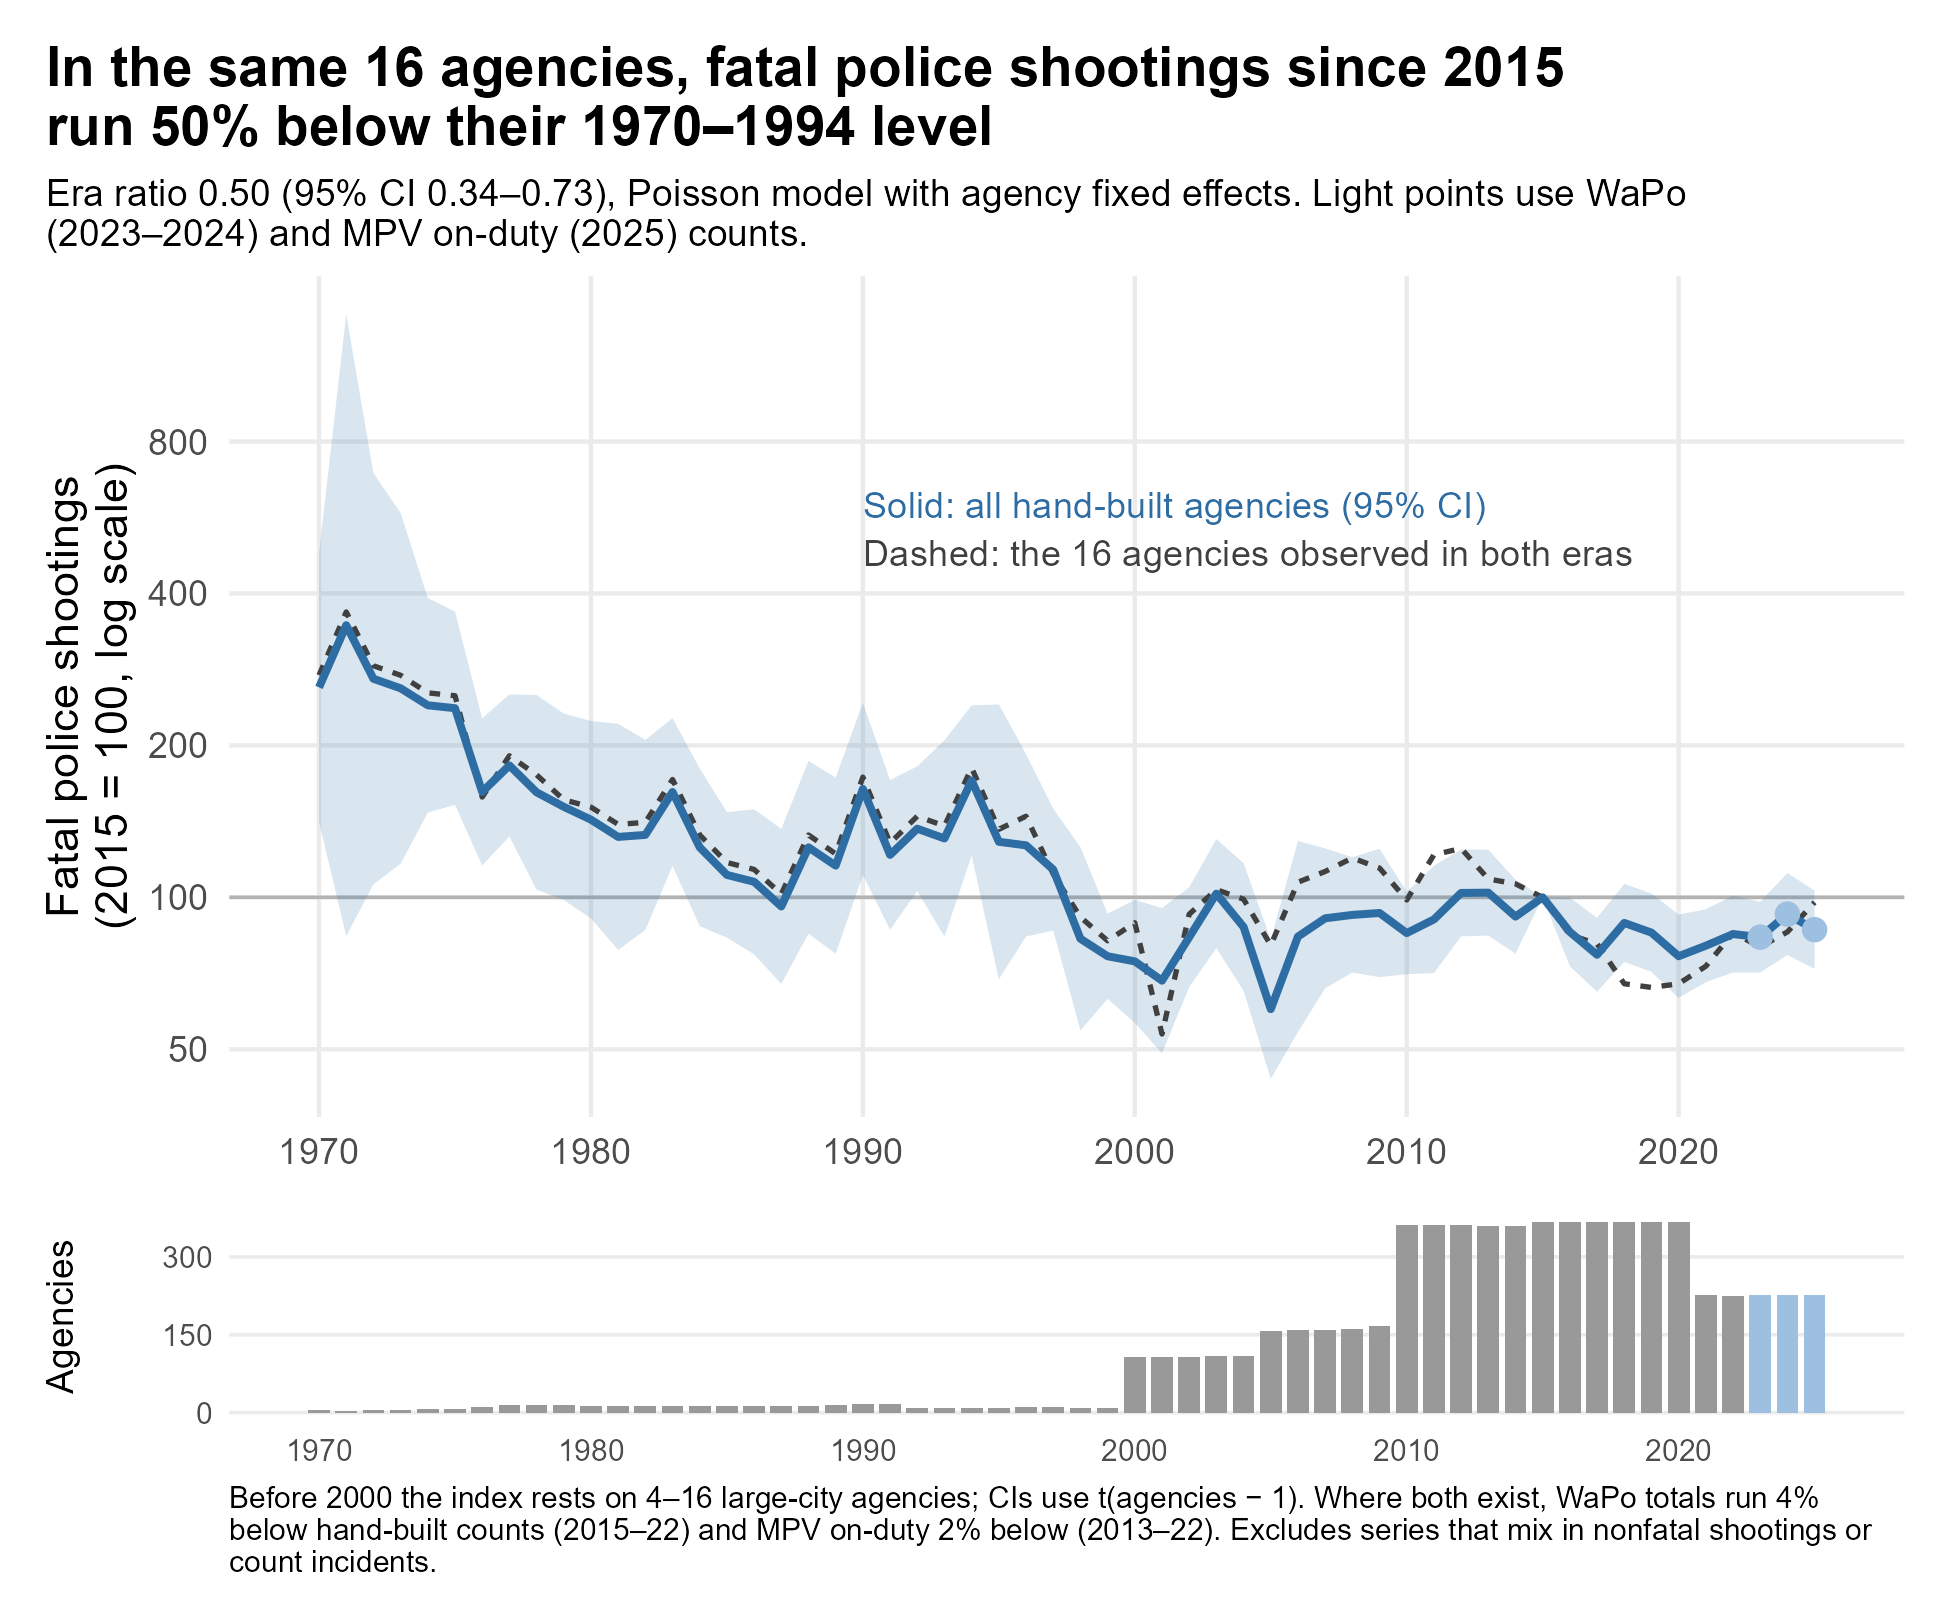
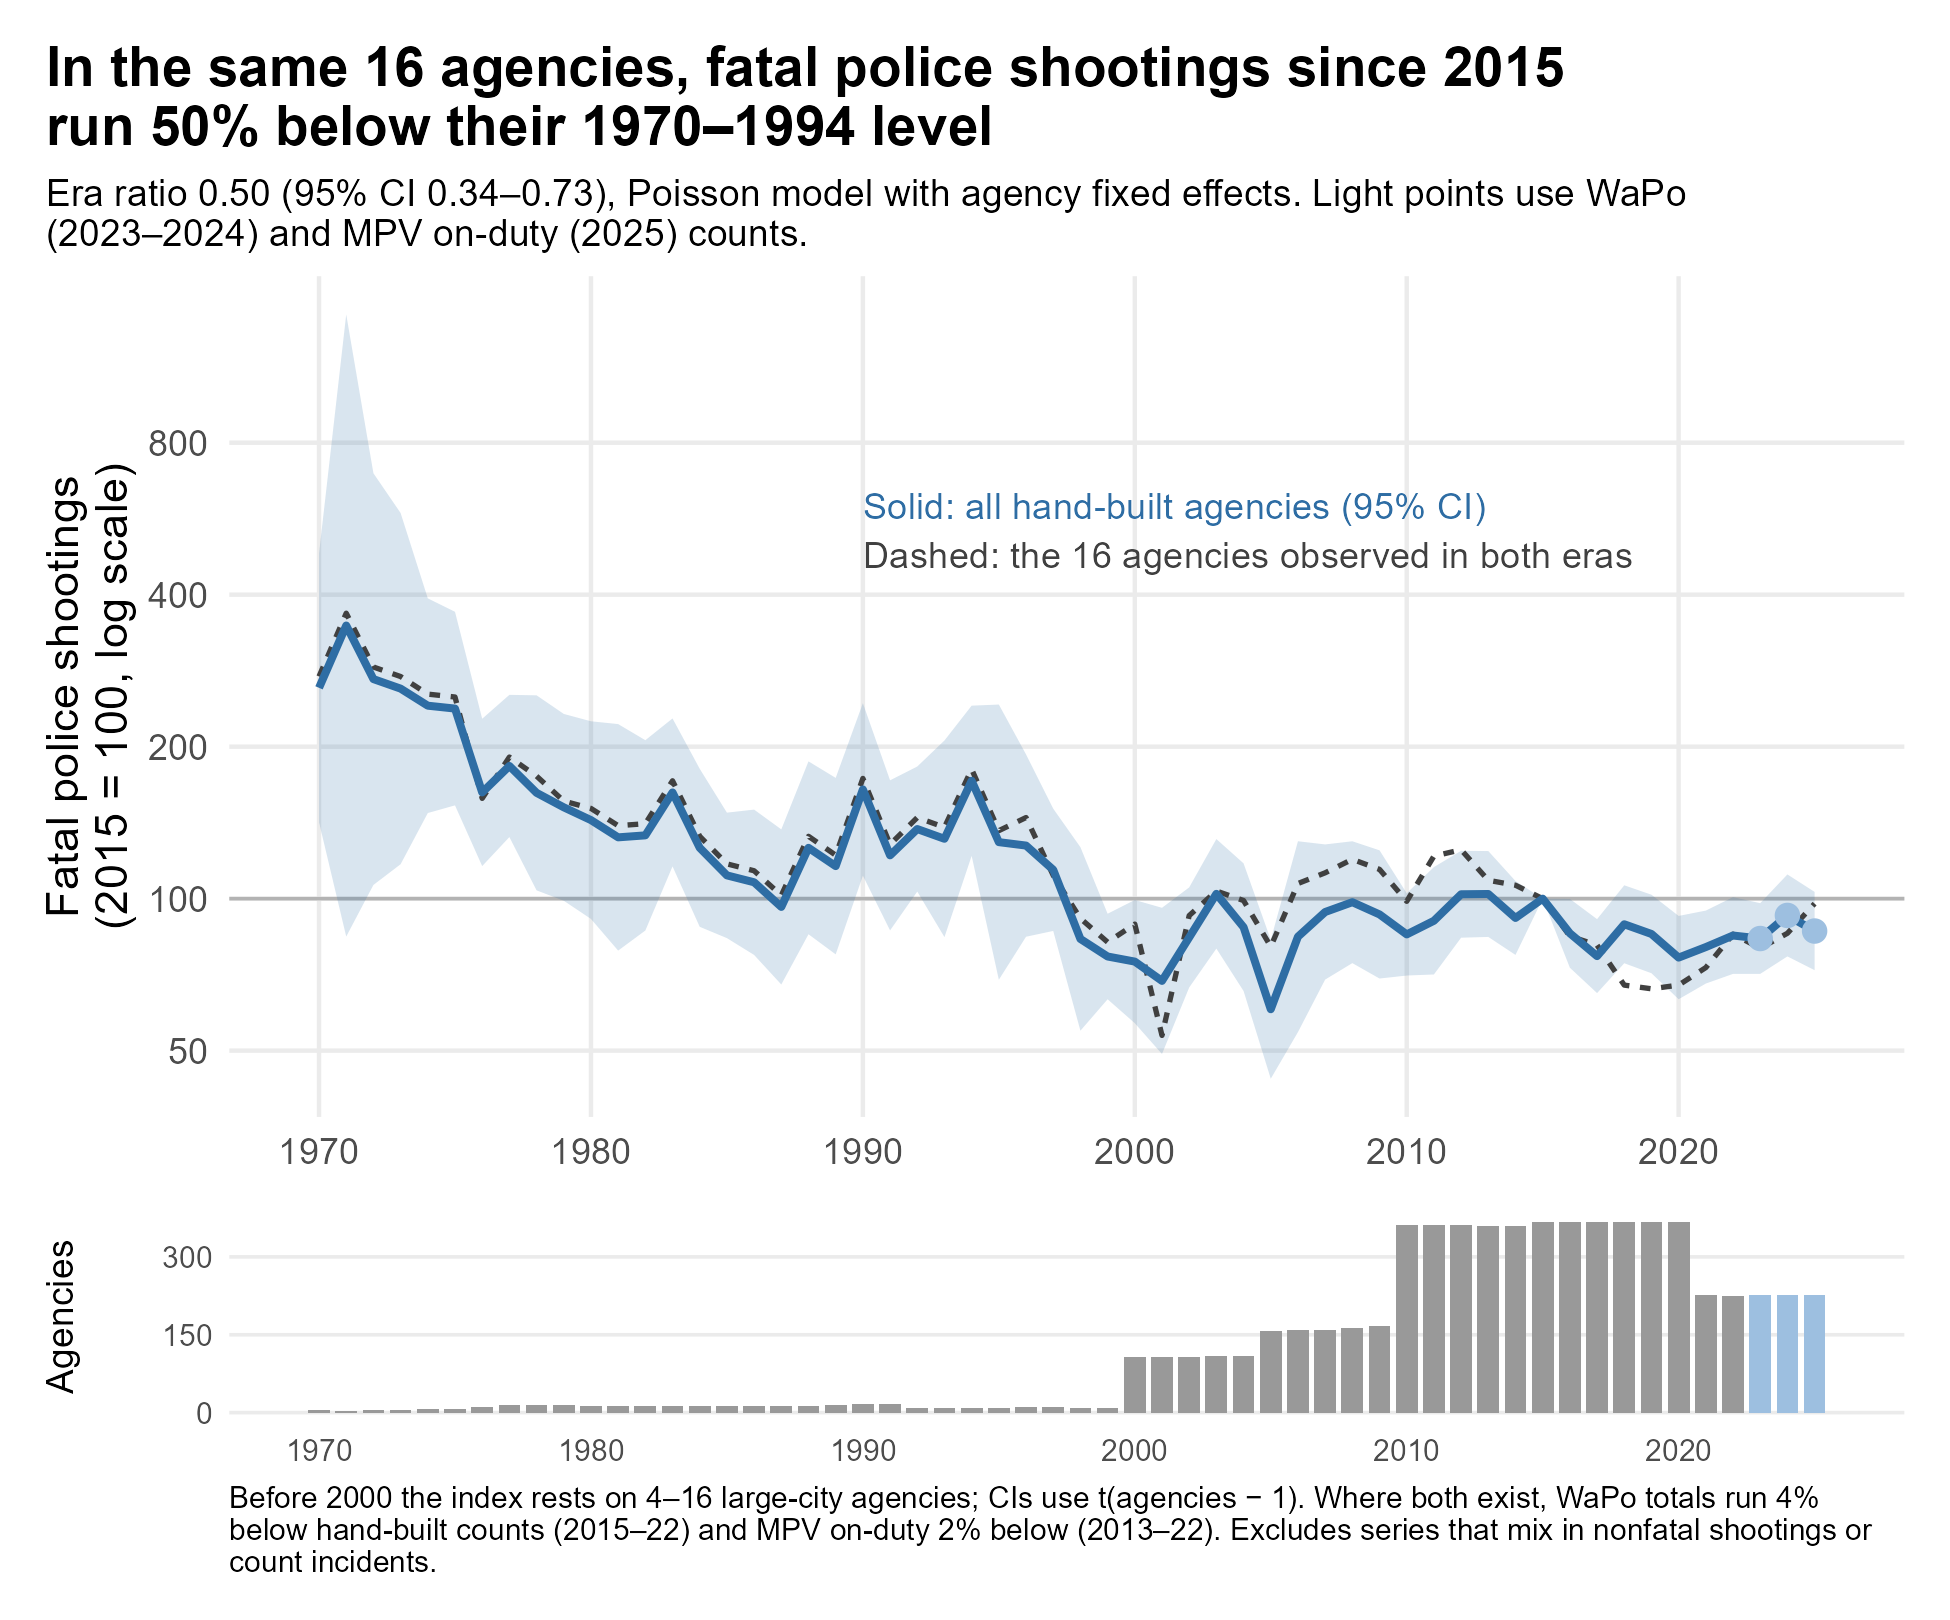
Add Jacksonville SO 2007-2008 to hand-built counts
Source: JSO, Police Involved Shootings (Jan. 2009), archived copy; logged
with page and quote in data/historical/historical_ois_evidence.csv. FE has
8 and 14 for those years. Pipeline rerun; README agreement row updated.

diff --git a/README.md b/README.md
@@ -69,7 +69,7 @@ Where they overlap, the sources mostly agree, though FE runs higher than WaPo:
 | Comparison | Years | Agency-years | Correlation | Total deaths, difference | Identical counts | Identical, where either > 0 |
 |---|---|---:|---:|---:|---:|---:|
 | Hand-built vs. WaPo | 2015–2022 | 2,641 | .945 | WaPo −4.0% | 95.2% | 86.8% |
-| Hand-built vs. FE | 2000–2021 | 5,559 | .902 | FE −1.1% | 91.2% | 69.3% |
+| Hand-built vs. FE | 2000–2021 | 5,561 | .903 | FE −1.2% | 91.2% | 69.3% |
 | WaPo vs. FE (hand-built agencies) | 2015–2021 | 2,870 | .973 | FE +9.2% | 90.1% | 71.1% |
 | Hand-built vs. MPV (on-duty) | 2013–2022 | 3,355 | .933 | MPV −2.2% | 89.9% | 71.5% |
 
@@ -138,6 +138,7 @@ I decided, for now at least, to focus on fatal shootings, since they're more rel
 | [Springfield (MO) PD](https://www.springfieldmo.gov/3755/Officer-Involved-Shootings) | 2008–2022 | Springfield (MO) PD |
 | [Austin open data portal](https://data.austintexas.gov/Public-Safety/Officer-Involved-Shooting-2000-2014/63p6-iegi) | 2000–2014 | Austin PD |
 | [Dallas open data portal](https://www.dallasopendata.com/Public-Safety/Dallas-Police-Officer-Involved-Shootings/4gmt-jyx2) | 2003–2022 | Dallas PD |
+| Jacksonville Sheriff's Office, [*Police Involved Shootings*](https://web.archive.org/web/20150717050006/http://www.jaxsheriff.org/departments/sheriffs-office/docs/sheriff-john-rutherford/police-involved-shootings-final.aspx) (Jan. 2009; archived copy) | 2007–2008 | Jacksonville SO |
 | [Cincinnati open data portal](https://data.cincinnati-oh.gov/Safety/PDI-Police-Data-Initiative-Officer-Involved-Shooti/r6q4-muts) | 1996–2019 | Cincinnati PD |
 | [Vermont open data portal](https://data.vermont.gov/Public-Safety/Vermont-State-Police-Officer-Involved-Shootings-19/du86-kfnp) | 1977–2022 | Vermont State Police |
 | [COPS Office report on LVMPD](https://cops.usdoj.gov/RIC/Publications/cops-p273-pub.pdf) | 1990–2011 | Las Vegas Metro PD |
@@ -207,7 +208,7 @@ To add an FE match or correct one:
 
 Found an error, or a source I've missed? Open an issue. Thanks to [Ash Bruha](https://www.viprlab.org/author/ash-bruha/) of the [VIPR Lab](https://www.viprlab.org/) for the Seattle and Denver series (Nov. 2025).
 
-`tools/data_source_scouting/` holds an experimental scraper that guesses agency websites and flags pages that may post use-of-force data. It produces leads, not data.
+`tools/historical_ois/` holds the tools used to look for counts from before each series begins. They rank agencies, search the Wayback Machine for archived department reports, and log every count found to [`data/historical/historical_ois_evidence.csv`](data/historical/historical_ois_evidence.csv). Each logged count has its source, page, and a verbatim quote. Counts of incidents, or of everyone shot rather than people killed, are logged there but kept out of the panel. The January 2026 website scraper these tools replace is archived in `tools/data_source_scouting/archive/`.
 
 ## Citation
 
